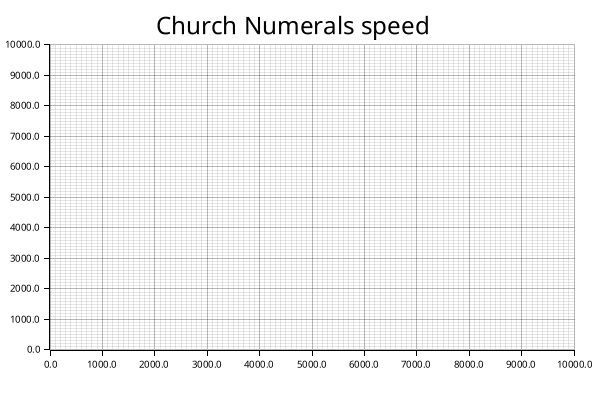
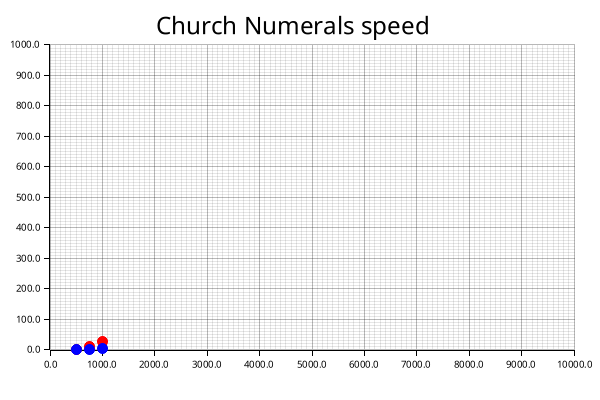
test

diff --git a/plotter/src/main.rs b/plotter/src/main.rs
@@ -1,3 +1,5 @@
+use std::fs::File;
+
 use plotters::prelude::*;
 
 #[derive(Debug, serde::Deserialize)]
@@ -8,7 +10,9 @@ pub struct Record {
 }
 
 fn main() -> Result<(), Box<dyn std::error::Error>> {
-    let mut rdr = csv::Reader::from_reader(std::io::stdin());
+    let file = std::fs::read_to_string("output.csv").expect("CANNOT READ THE FILE MFER");
+
+    let mut rdr = csv::Reader::from_reader(file.as_bytes());
     let mut vec_f: Vec<(f32, f32)> = Vec::new();
     let mut vec_c: Vec<(f32, f32)> = Vec::new();
     for result in rdr.deserialize() {
@@ -25,7 +29,7 @@ fn main() -> Result<(), Box<dyn std::error::Error>> {
         .set_label_area_size(LabelAreaPosition::Left, 40)
         .set_label_area_size(LabelAreaPosition::Bottom, 40)
         .caption("Church Numerals speed", ("sans-serif", 30))
-        .build_cartesian_2d(0f32..10000f32, 0f32..10000f32)
+        .build_cartesian_2d(0f32..10000f32, 0f32..1000f32)
         .unwrap();
 
     ctx.configure_mesh().draw().unwrap();
